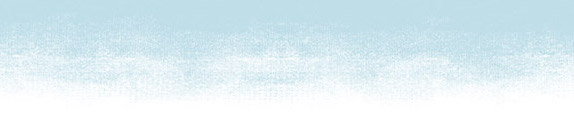
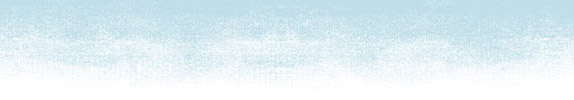
Crop a little bit more the page background's height and remove unused image.
git-svn-id: https://translate.svn.sourceforge.net/svnroot/translate/src/trunk/Pootle@13121 54714841-351b-0410-a198-e36a94b762f5

diff --git a/html/style.css b/html/style.css
@@ -546,7 +546,7 @@ h3.title
 {
     margin: 0;
     padding: 10px;
-    background: #fff url(images/page-bg2.jpg) top left repeat-x;
+    background: #fff url(images/page-bg.jpg) top left repeat-x;
     clear: both;
 }
 
